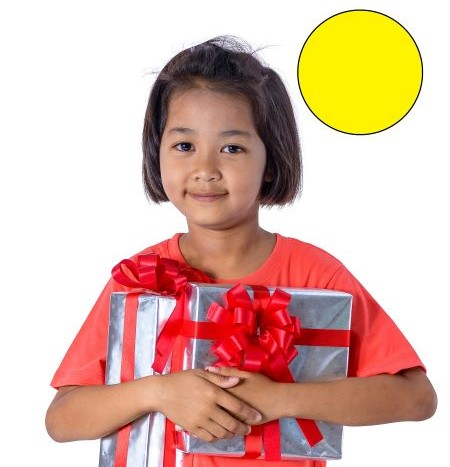
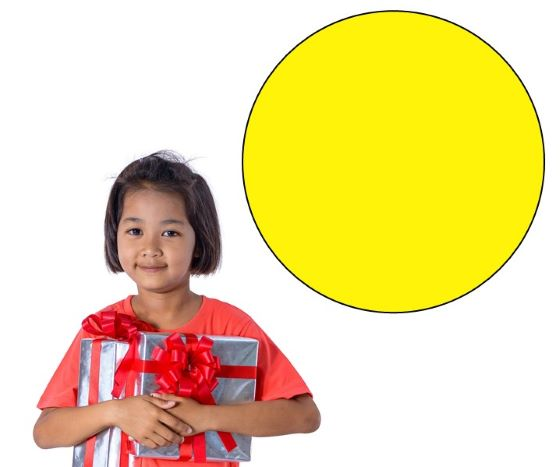
changes for session 2 page 5

diff --git a/src/views/Session2/Session2Page5.vue b/src/views/Session2/Session2Page5.vue
@@ -26,12 +26,14 @@ export default {
   data() {
     return {
       canvasStyle: {
-
+        width: 0.7,
+        height: 0.8,
+        isPicture: true,
+        pictureUrl: 'session2/5772-resized.jpg'
       }
     }
   },
   mounted() {
-
     let para = document.getElementsByClassName('text-box')[0].children;
     let animation = anime.timeline({
       easing: 'linear',
@@ -63,11 +65,21 @@ export default {
         targets: para[5],
         opacity: 1
       })
+      .add({
+        targets: '.canvas',
+        opacity: 1
+      })
   }
 }
 </script>
 
 <style scoped>
+.canvas {
+  position: absolute;
+  left: 30vw;
+  top: 2vh;
+  opacity: 0;
+}
 .text-box {
   position: absolute;
   width: 30vw;
